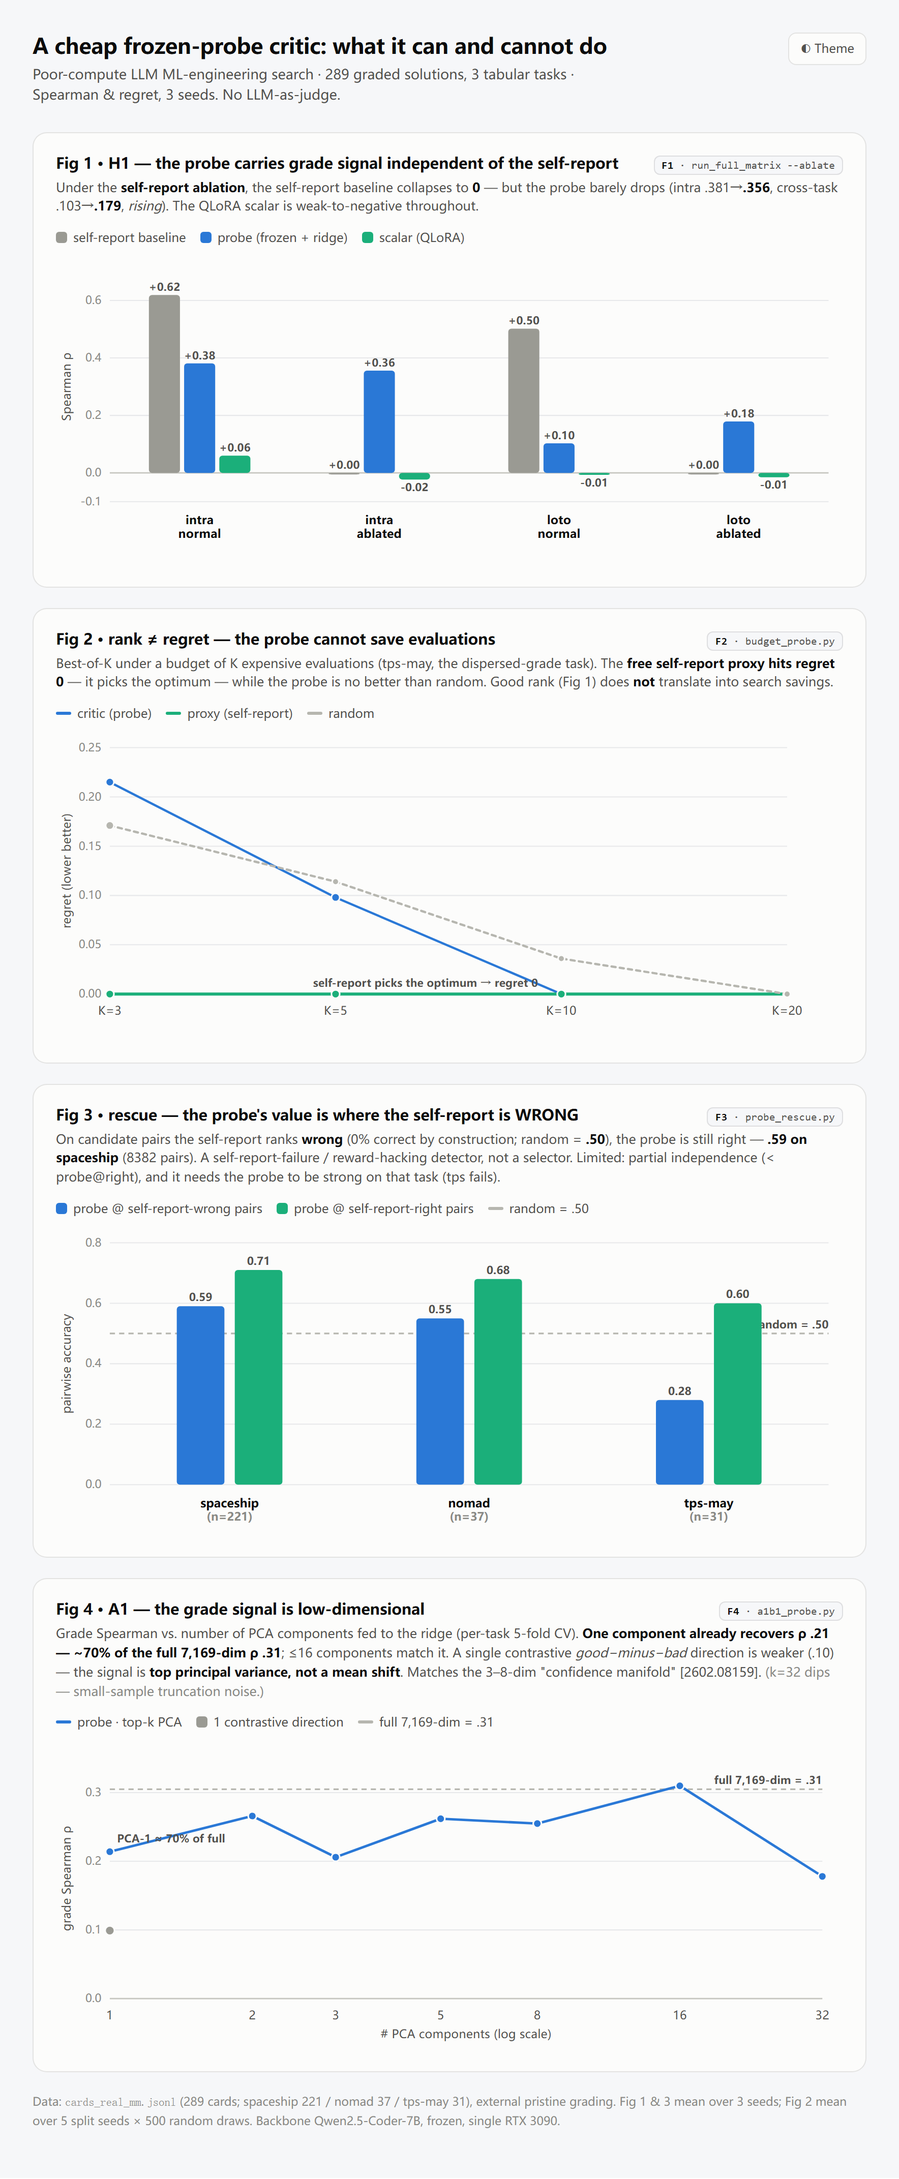
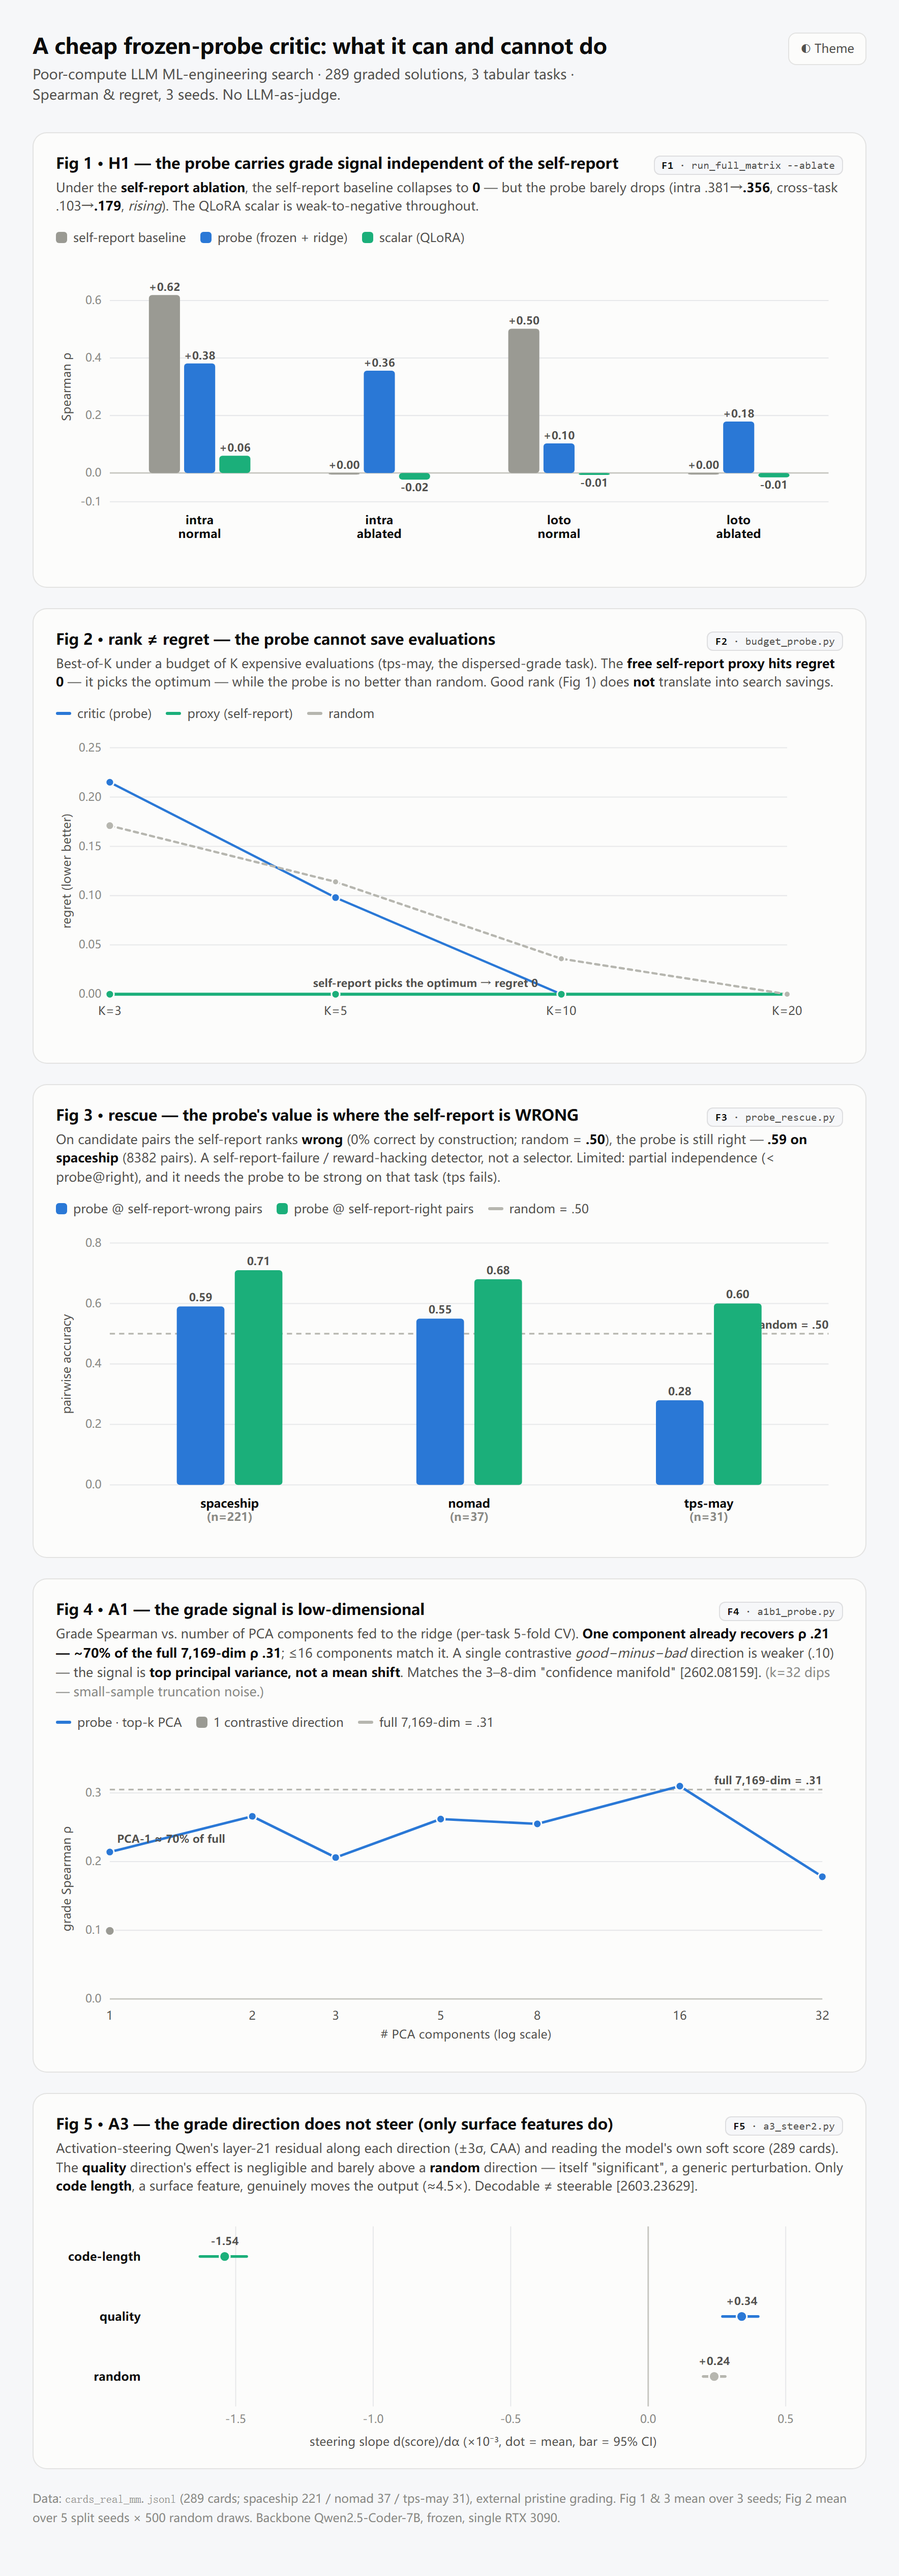
paper+figures: A3 causal-steering negative into 5.4 through-line (decodable != usable: selects/vetoes/steers nothing; only surface steers) + Fig 5 coefficient plot

diff --git a/phase1/figures.html b/phase1/figures.html
@@ -109,6 +109,13 @@
     <svg id="f4" viewBox="0 0 760 300" role="img" aria-label="A1 low-dimensionality line chart"></svg>
   </figure>
 
+  <figure class="fig" id="fig-steer">
+    <figcaption><div class="fig-top"><h2 class="fig-h">Fig 5 · A3 — the grade direction does not steer (only surface features do)</h2>
+    <span class="tag"><b>F5</b> · a3_steer2.py</span></div>
+    <p class="fig-k">Activation-steering Qwen's layer-21 residual along each direction (±3σ, CAA) and reading the model's own soft score (289 cards). The <b>quality</b> direction's effect is negligible and barely above a <b>random</b> direction — itself "significant", a generic perturbation. Only <b>code length</b>, a surface feature, genuinely moves the output (≈4.5×). Decodable ≠ steerable [2603.23629].</p></figcaption>
+    <svg id="f5" viewBox="0 0 760 232" role="img" aria-label="A3 steering coefficient plot"></svg>
+  </figure>
+
   <p class="foot">Data: <code>cards_real_mm.jsonl</code> (289 cards; spaceship 221 / nomad 37 / tps-may 31), external pristine grading. Fig 1 &amp; 3 mean over 3 seeds; Fig 2 mean over 5 split seeds × 500 random draws. Backbone Qwen2.5-Coder-7B, frozen, single RTX 3090.</p>
 </div>
 
@@ -235,7 +242,29 @@
     yl.textContent='grade Spearman ρ'; svg.appendChild(yl);
   }
 
-  function draw(){ fig1(); fig2(); fig3(); fig4(); }
+  // ---- Fig 5: A3 steering coefficient plot (slope +/- 95% CI, x1e-3) ----
+  function fig5(){
+    const svg=document.getElementById('f5'); svg.innerHTML='';
+    const W=760,H=232,L=94,R=28,T=16,B=42, pw=W-L-R, ph=H-T-B;
+    const rows=[["code-length",-1.54,-1.63,-1.46,css('--alt')],
+                ["quality",0.34,0.27,0.40,css('--probe')],
+                ["random",0.24,0.20,0.28,css('--random')]];
+    const xmin=-1.8,xmax=0.6, x=v=>L+(v-xmin)/(xmax-xmin)*pw;
+    for(const gx of [-1.5,-1.0,-0.5,0,0.5]){ const xx=x(gx);
+      svg.appendChild(E('line',{x1:xx,x2:xx,y1:T,y2:T+ph,stroke:gx===0?css('--baseline'):css('--grid'),'stroke-width':gx===0?1.4:1}));
+      const t=E('text',{x:xx,y:T+ph+16,'text-anchor':'middle',class:'ax'});t.textContent=gx.toFixed(1);svg.appendChild(t);}
+    const xl=E('text',{x:L+pw/2,y:H-4,'text-anchor':'middle',class:'axb'}); xl.textContent='steering slope  d(score)/dα   (×10⁻³, dot = mean, bar = 95% CI)'; svg.appendChild(xl);
+    const rh=ph/rows.length;
+    rows.forEach((r,i)=>{ const cy=T+rh*(i+0.5);
+      const nm=E('text',{x:L-12,y:cy+4,'text-anchor':'end',class:'grp'}); nm.textContent=r[0]; svg.appendChild(nm);
+      svg.appendChild(E('line',{x1:x(r[2]),x2:x(r[3]),y1:cy,y2:cy,stroke:r[4],'stroke-width':2.6,'stroke-linecap':'round'}));
+      const c=E('circle',{cx:x(r[1]),cy,r:5,fill:r[4],stroke:css('--surface'),'stroke-width':1.5,class:'pt'});
+      c.addEventListener('mousemove',e=>show(`<b>${r[0]}</b><br>slope ${(r[1]>=0?'+':'')+r[1].toFixed(2)}e-3  [${r[2].toFixed(2)}, ${r[3].toFixed(2)}]e-3`,e)); c.addEventListener('mouseleave',hide); svg.appendChild(c);
+      const vt=E('text',{x:x(r[1]),y:cy-11,'text-anchor':'middle',class:'val',fill:r[4]}); vt.textContent=(r[1]>=0?'+':'')+r[1].toFixed(2); svg.appendChild(vt);
+    });
+  }
+
+  function draw(){ fig1(); fig2(); fig3(); fig4(); fig5(); }
   draw();
   document.getElementById('tg').addEventListener('click',()=>{
     const cur=document.documentElement.getAttribute('data-theme');

diff --git a/phase1/论文初稿_v2_穷算力杠杆.md b/phase1/论文初稿_v2_穷算力杠杆.md
@@ -32,7 +32,7 @@ Our honest finding is **one lever, two non-levers**: (1) is the lever — but th
 
 **Contributions.**
 - **§4 The lever**: evaluation noise is real and *task-dependent* (T0: R²=0.14 on an overfit-prone task); full-fidelity evaluation ≫ any cheap proxy, and the cheap *selection statistic* (single/mean/variance-penalty) is not the lever (T1).
-- **§5 Non-lever I (critics)**: H1 (ablation-verified independent probe signal) → rank≠regret (no budget savings) → wrong-pair rescue (failure-detection only) → **the online veto does not convert (new)** → reasoning-first negative → two pitfalls.
+- **§5 Non-lever I (critics)**: H1 (ablation-verified independent probe signal) → rank≠regret (no budget savings) → wrong-pair rescue (failure-detection only) → **the online veto does not convert (new)** → **nor does the direction steer — only surface features do (A3, new)** → reasoning-first negative → two pitfalls. The signal is **decodable but not causally usable**: it selects/vetoes/steers nothing.
 - **§6 Non-lever II (multi-fidelity)**: a headroom probe showing multi-fidelity pays only on dispersed tasks that poor compute cannot afford **(new)**.
 - **§7**: the convergence of the two lines and its relation to aira-dojo (negative on search) and AIRA_2 (evaluation noise as the mechanism).
 
@@ -156,6 +156,8 @@ v1 proposed, as future work, wiring the wrong-pair signal into deployment **as a
 
 The random-pool win is an **artifact of independent candidates**: random pools frequently pair a high-self-report/low-true node with a genuinely good one, giving the veto something to rescue; real search trees, whose candidates converge via improve-lineage, leave little — the self-report's own deployment pick is already good (11/18 ties). **The failure-detection signal (§5.3) is real but does not convert into a robust deployment benefit** — *rank ≠ regret* extends from best-of-K selection (§5.2) to the online veto. (We did not proceed to a live search-time integration: a non-significant offline effect this size would not survive it, and the discipline of offline falsification before expensive online commitment is the point.)
 
+**Nor can the direction be *steered* (A3, Fig 5).** Decodability fails usability in a third, causal sense. We activation-steer the frozen model's layer-21 residual stream along the grade direction (CAA-style, ±3σ in units of its own projection std) and read the model's own soft score (expected value over the score digit's token distribution — a *continuous* readout, since the greedy-decoded score quantizes to 7 buckets and is itself anti-correlated with the grade, ρ −0.21). The quality-specific effect is *statistically* detectable at n = 289 but **negligible** in magnitude (quality − random slope +1×10⁻⁴, ~0.01 % of the score range), and a norm-matched **random** direction is itself "significant" (a generic perturbation effect) — the significance bar is meaningless at this power. The one direction that genuinely moves the output is **code length** (slope ≈ 4.5× quality's), the only steerable axis being a *surface* feature — exactly as steering-code work finds quality is not the controllable direction [arXiv:2603.23629]. So the §5.1 grade signal is **decodable but not causally usable**: it selects nothing (§5.2), vetoes nothing (§5.4), and steers nothing — only surface features steer. (A frozen-model gate; we did not run the expensive steer-and-generate study a positive gate would have justified — the negative gate is the saving.)
+
 ### 5.5 Reasoning-first does not help — not with a 14B teacher, nor with privileged-information grounding
 
 | task | scalar | reasoning (14B teacher) |
@@ -215,7 +217,7 @@ Under poor compute, the lever in LLM ML-engineering search is **evaluation quali
 
 - **T0/T1** (§4): aira-dojo + DeepSeek, spaceship+nomad; T0 9-seed MCTS (185 nodes, 71 working), external pristine grade; T1 5-seed/arm greedy HCE, three-arm (full/naive/consistency), metrics sel_dval/regret/gap. Reports: `进度汇报_20260629.md`, memories `t0-verdict`/`t1-result`/`t1-harness`.
 - **Cards** (§5): `aira-dojo/phase1/cards_real_mm.jsonl` (289; initial 148 as `_148bak`), per-task min-max labels; external grading, no LLM-judge.
-- **Scripts**: `run_full_matrix.py` (`--ablate`), `h1_ablation.py` (layer × ablation × length-residual, §5.1), `a1b1_probe.py` (low-dim subspace, §5.1), `budget_probe.py` (best-of-K, §5.2), `probe_rescue.py` (wrong-pair, §5.3), `b1_detector.py`+`b1_resid.py` (deployable detector, AUROC/bootstrap, length-residualized, §5.3), `veto_sim.py` (random-pool veto, §5.4), `veto_realtrees.py` (real-tree veto + blend + bootstrap, §5.4), `mf_headroom.py` (multi-fidelity headroom, §6), `build_cards.py`+`relabel_minmax.py`, `dump_reasoning.py` (pitfall).
+- **Scripts**: `run_full_matrix.py` (`--ablate`), `h1_ablation.py` (layer × ablation × length-residual, §5.1), `a1b1_probe.py` (low-dim subspace, §5.1), `budget_probe.py` (best-of-K, §5.2), `probe_rescue.py` (wrong-pair, §5.3), `b1_detector.py`+`b1_resid.py` (deployable detector, AUROC/bootstrap, length-residualized, §5.3), `veto_sim.py` (random-pool veto, §5.4), `veto_realtrees.py` (real-tree veto + blend + bootstrap, §5.4), `a3_steer.py`+`a3_steer2.py` (causal steering gate, greedy + sensitive-soft readout, §5.4), `mf_headroom.py` (multi-fidelity headroom, §6), `build_cards.py`+`relabel_minmax.py`, `dump_reasoning.py` (pitfall).
 - Backbone Qwen2.5-Coder-7B/14B, 4-bit, single RTX 3090; all runs log seed/commit/budget/arm.
 
 ## References
